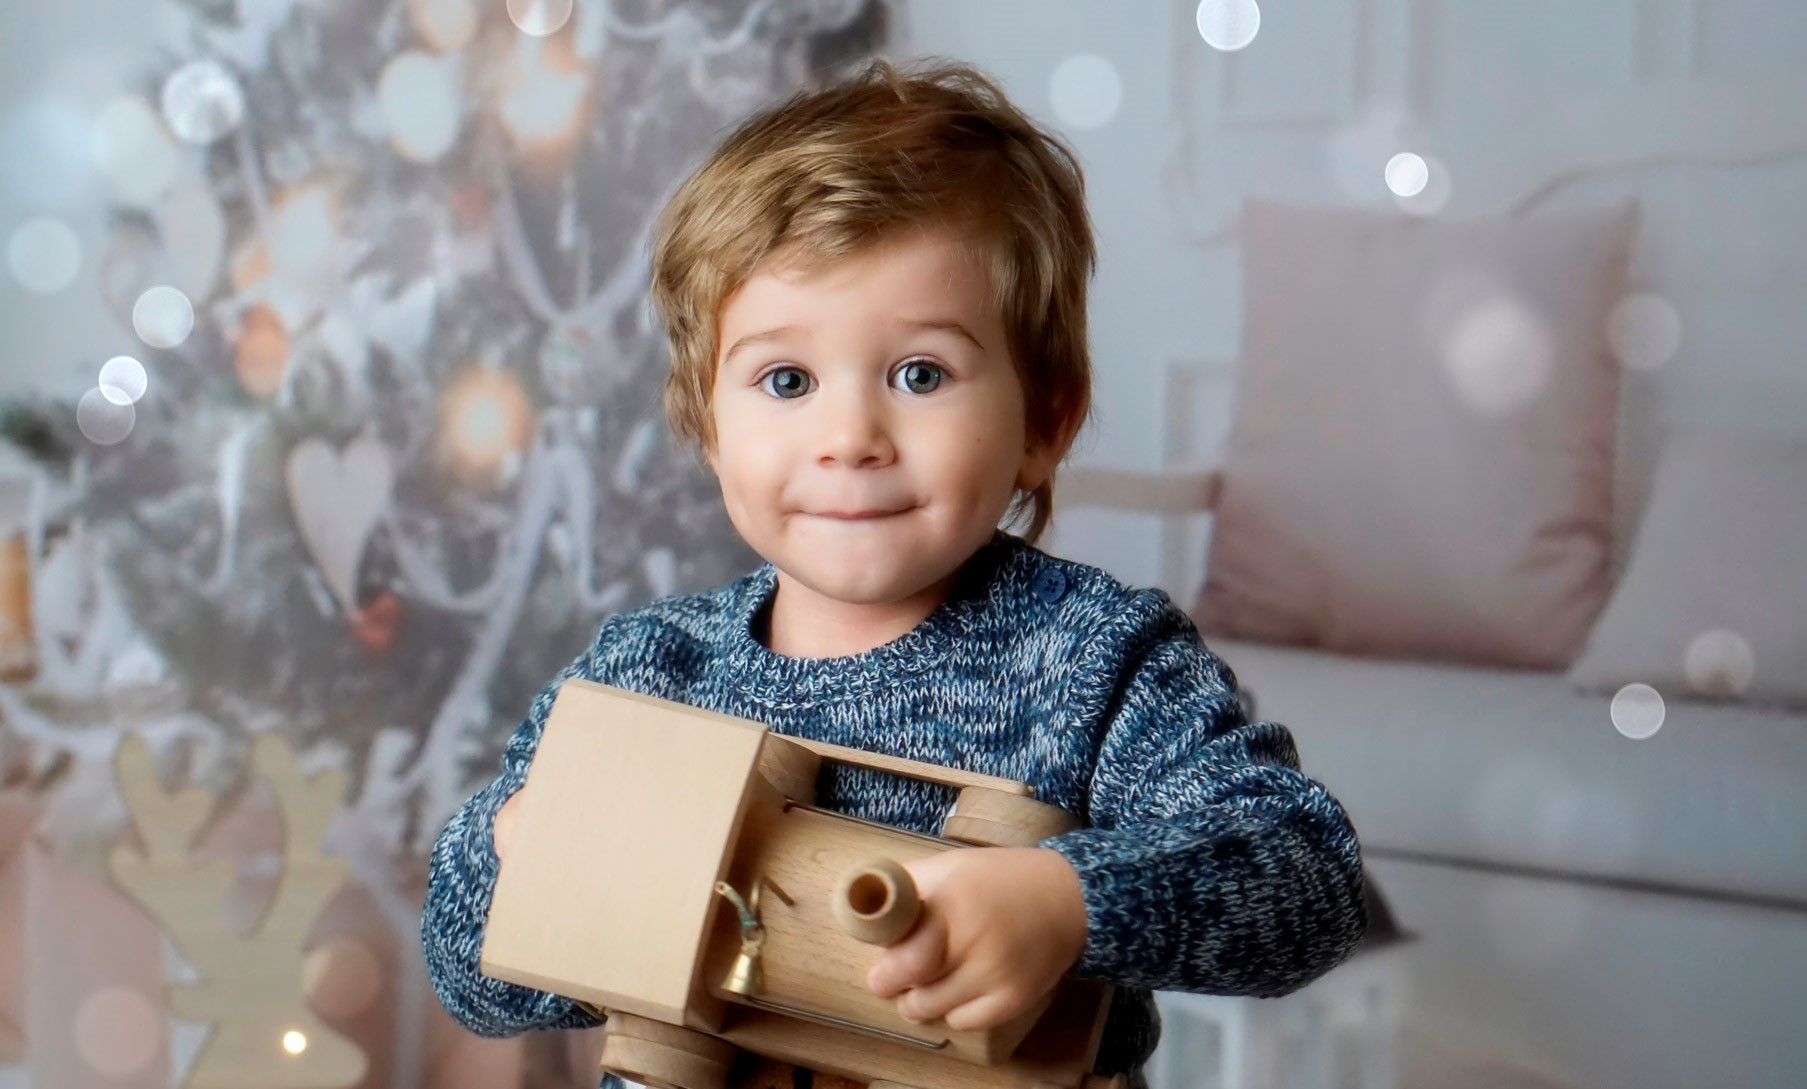
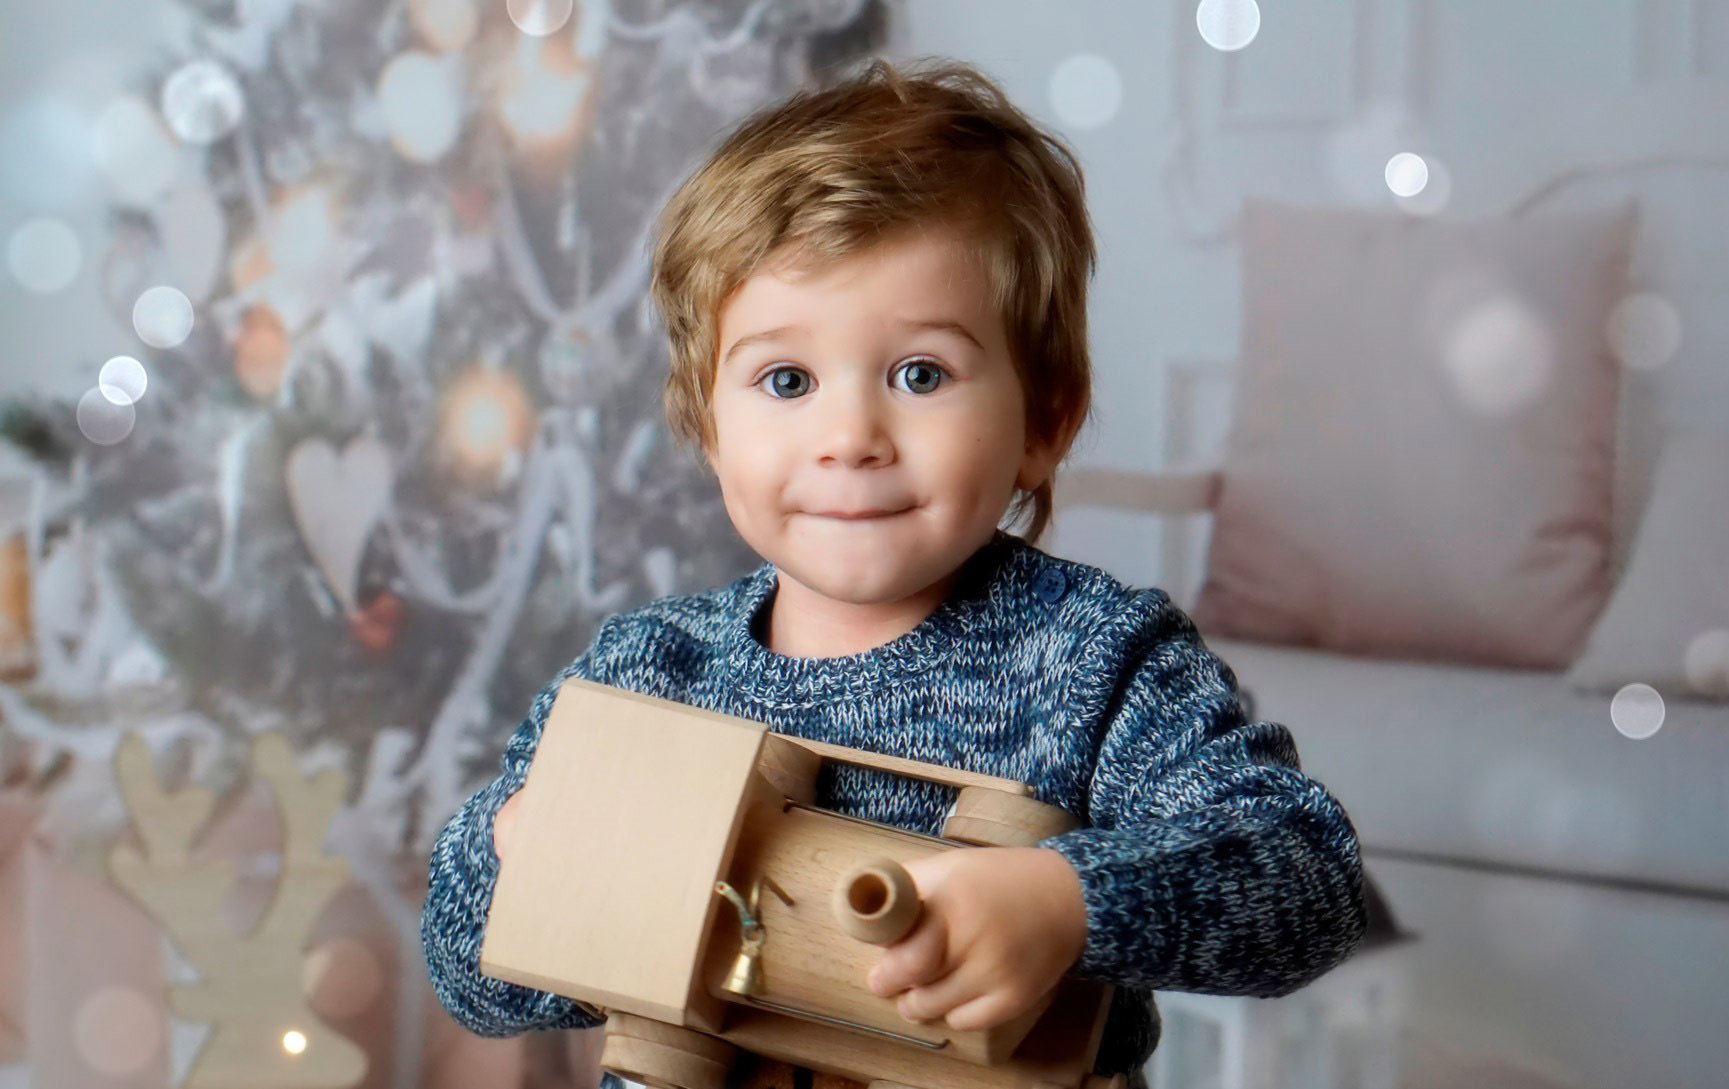
optimized hero images and animations

diff --git a/pages/index.js b/pages/index.js
@@ -40,6 +40,22 @@ const HeroSection = () => {
       image: `/hero6.jpg`,
       id: "three",
     },
+    {
+      image: `/hero7.jpg`,
+      id: "three",
+    },
+    {
+      image: `/hero8.jpg`,
+      id: "three",
+    },
+    {
+      image: `/hero9.jpg`,
+      id: "three",
+    },
+    {
+      image: `/hero10.jpg`,
+      id: "three",
+    },
   ];
 
   const [counter, setCounter] = useState(0);
@@ -75,18 +91,18 @@ const HeroSection = () => {
               animate={{ opacity: 1 }}
               exit={{ opacity: 0 }}
               transition={{
-                x: { type: "spring", stiffness: 300, damping: 300 },
-                opacity: { duration: 1 },
+                type: "spring",
+                stiffness: 100,
+                damping: 20,
               }}
             >
               <Image
                 src={slide.image}
                 height={1500}
                 width={3000}
+                quality={80}
                 objectFit="cover"
-                blurDataURL={slide.image}
                 loading="eager"
-                priority
               />
             </HeroImage>
           </AnimatePresence>

diff --git a/styles/heroElements.js b/styles/heroElements.js
@@ -19,7 +19,7 @@ export const HeroContainer = styled.div`
     background: linear-gradient(
         180deg,
         rgba(0, 0, 0, 0.1) 0%,
-        rgba(0, 0, 0, 0.3) 100%
+        rgba(0, 0, 0, 0.1) 100%
       ),
       linear-gradient(180deg, rgba(0, 0, 0, 0.1) 0%, transparent 100%);
     z-index: 2;
